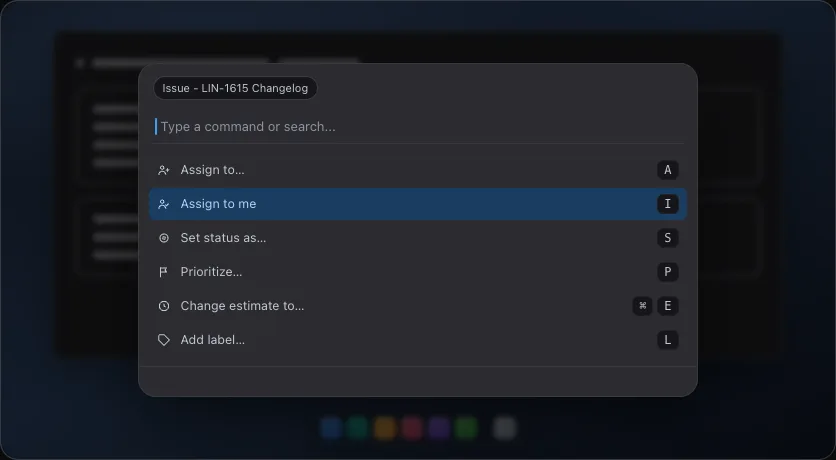
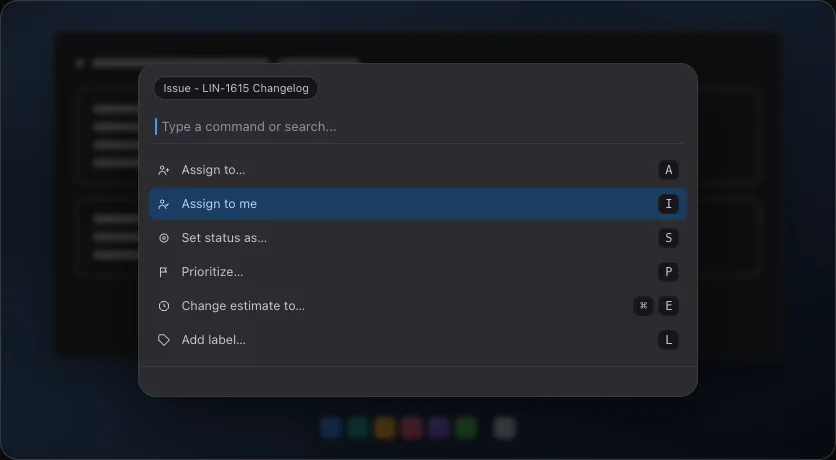
fix(data): a smooth line never overshoots its own data
`smooth` was a Catmull-Rom spline, which bends to reach its neighbours: a
flat run that ends in a drop made the curve rise above the line first, and
on a chart that starts at zero it drew under the axis. Measured on the
test's own points, a control point sat at 113.33 when the highest value the
data holds is 100.

It is now a monotone cubic — Fritsch-Carlson — so the tangent is zero at
every local extreme and never steeper than both slopes either side. The
curve passes through every point and stays inside the data, which is what
every chart library's default curve does.

The regression test walks every coordinate on the path, the control points
included, and holds it to the data's range; it reports 113.33 against 100 on
the previous curve.

diff --git a/packages/data/src/chart/geometry.ts b/packages/data/src/chart/geometry.ts
@@ -176,6 +176,50 @@ const at = (value: number): string =>
 const pair = (point: Point): string => `${at(point.x)} ${at(point.y)}`;
 
 /**
+ * The tangent at each point of a **monotone** cubic curve.
+ *
+ * A chart line must never invent a value: a spike from 409 down to 59 is a
+ * spike, and a curve through it that dips below 59 — or below zero — draws a
+ * number the data does not have. A Catmull-Rom spline does exactly that,
+ * because it bends to reach its neighbours.
+ *
+ * The Fritsch–Carlson rule is the curve that cannot: where a point is a local
+ * extreme its tangent is **zero**, and where it is not, the tangent is the
+ * weighted harmonic mean of the slopes either side, which is never steeper
+ * than both. The result passes through every point and stays inside the data.
+ */
+const monotoneTangents = (points: ReadonlyArray<Point>): ReadonlyArray<number> => {
+  const count = points.length;
+  if (count < 2) return Arr.map(points, () => 0);
+  const run: number[] = [];
+  const slope: number[] = [];
+  for (let index = 0; index < count - 1; index += 1) {
+    const from = points[index];
+    const to = points[index + 1];
+    if (from === undefined || to === undefined) continue;
+    const step = to.x - from.x;
+    run[index] = step;
+    slope[index] = step === 0 ? 0 : (to.y - from.y) / step;
+  }
+  const tangent: number[] = Arr.map(points, () => 0);
+  tangent[0] = slope[0] ?? 0;
+  tangent[count - 1] = slope[count - 2] ?? 0;
+  for (let index = 1; index < count - 1; index += 1) {
+    const before = slope[index - 1] ?? 0;
+    const after = slope[index] ?? 0;
+    // A peak or a trough: the curve flattens, so it cannot overshoot.
+    if (before * after <= 0) {
+      tangent[index] = 0;
+      continue;
+    }
+    const left = 2 * (run[index] ?? 1) + (run[index - 1] ?? 1);
+    const right = (run[index] ?? 1) + 2 * (run[index - 1] ?? 1);
+    tangent[index] = (left + right) / (left / before + right / after);
+  }
+  return tangent;
+};
+
+/**
  * The path through points, in the join the caller asked for.
  *
  * `smooth` is a Catmull-Rom spline written as cubics, which passes through
@@ -195,23 +239,21 @@ export const curvePath = (
   }
   const [head, ...rest] = points;
   if (head === undefined) return Option.none();
+  const tangents = monotoneTangents(points);
   const body = Arr.map(rest, (point, index) => {
     const previous = points[index];
     if (previous === undefined) return "";
     return Match.value(curve).pipe(
       Match.when("step", () => `H${at(point.x)}V${at(point.y)}`),
       Match.when("smooth", () => {
-        const before = points[index - 1] ?? previous;
-        const after = points[index + 2] ?? point;
-        const c1 = {
-          x: previous.x + (point.x - before.x) / 6,
-          y: previous.y + (point.y - before.y) / 6,
-        };
-        const c2 = {
-          x: point.x - (after.x - previous.x) / 6,
-          y: point.y - (after.y - previous.y) / 6,
-        };
-        return `C${pair(c1)} ${pair(c2)} ${pair(point)}`;
+        const h = (point.x - previous.x) / 3;
+        return `C${pair({
+          x: previous.x + h,
+          y: previous.y + (tangents[index] ?? 0) * h,
+        })} ${pair({
+          x: point.x - h,
+          y: point.y - (tangents[index + 1] ?? 0) * h,
+        })} ${pair(point)}`;
       }),
       Match.when("linear", () => `L${pair(point)}`),
       Match.exhaustive,

diff --git a/packages/data/src/chart/geometry.test.ts b/packages/data/src/chart/geometry.test.ts
@@ -137,6 +137,34 @@ describe("curves", () => {
     expect(path.endsWith("100 100")).toBe(true);
   });
 
+  it("never overshoots the data it is drawn through", () => {
+    // A spike is a spike. A Catmull-Rom spline bends to reach its neighbours,
+    // so the curve from a peak down to a trough dipped **below** the trough —
+    // painting a value the data does not have, and on a chart that starts at
+    // zero, drawing under the axis. The monotone rule flattens at every local
+    // extreme, so the curve stays inside its own data.
+    // A flat run that ends in a drop: a Catmull-Rom spline bends *up* before
+    // it descends, so the curve rose above the flat line — a value higher than
+    // any the data holds.
+    const spiky = [
+      { x: 0, y: 100 },
+      { x: 50, y: 100 },
+      { x: 100, y: 100 },
+      { x: 150, y: 20 },
+      { x: 200, y: 100 },
+    ];
+    const path = someOr(curvePath(spiky, "smooth"), "no smooth curve");
+
+    // Every coordinate on the path — the points and the two control points of
+    // every segment — lies inside the data's own range.
+    const values = [...path.matchAll(/(-?[\d.]+) (-?[\d.]+)/g)].map((match) =>
+      Number(match[2]),
+    );
+    expect(values.length).toBeGreaterThan(4);
+    expect(Math.min(...values)).toBeGreaterThanOrEqual(20);
+    expect(Math.max(...values)).toBeLessThanOrEqual(100);
+  });
+
   it("paints a half-pixel run for a single point, never a zero-length path", () => {
     expect(curvePath([{ x: 10, y: 20 }], "linear")).toEqual(
       Option.some("M10 20h1"),
